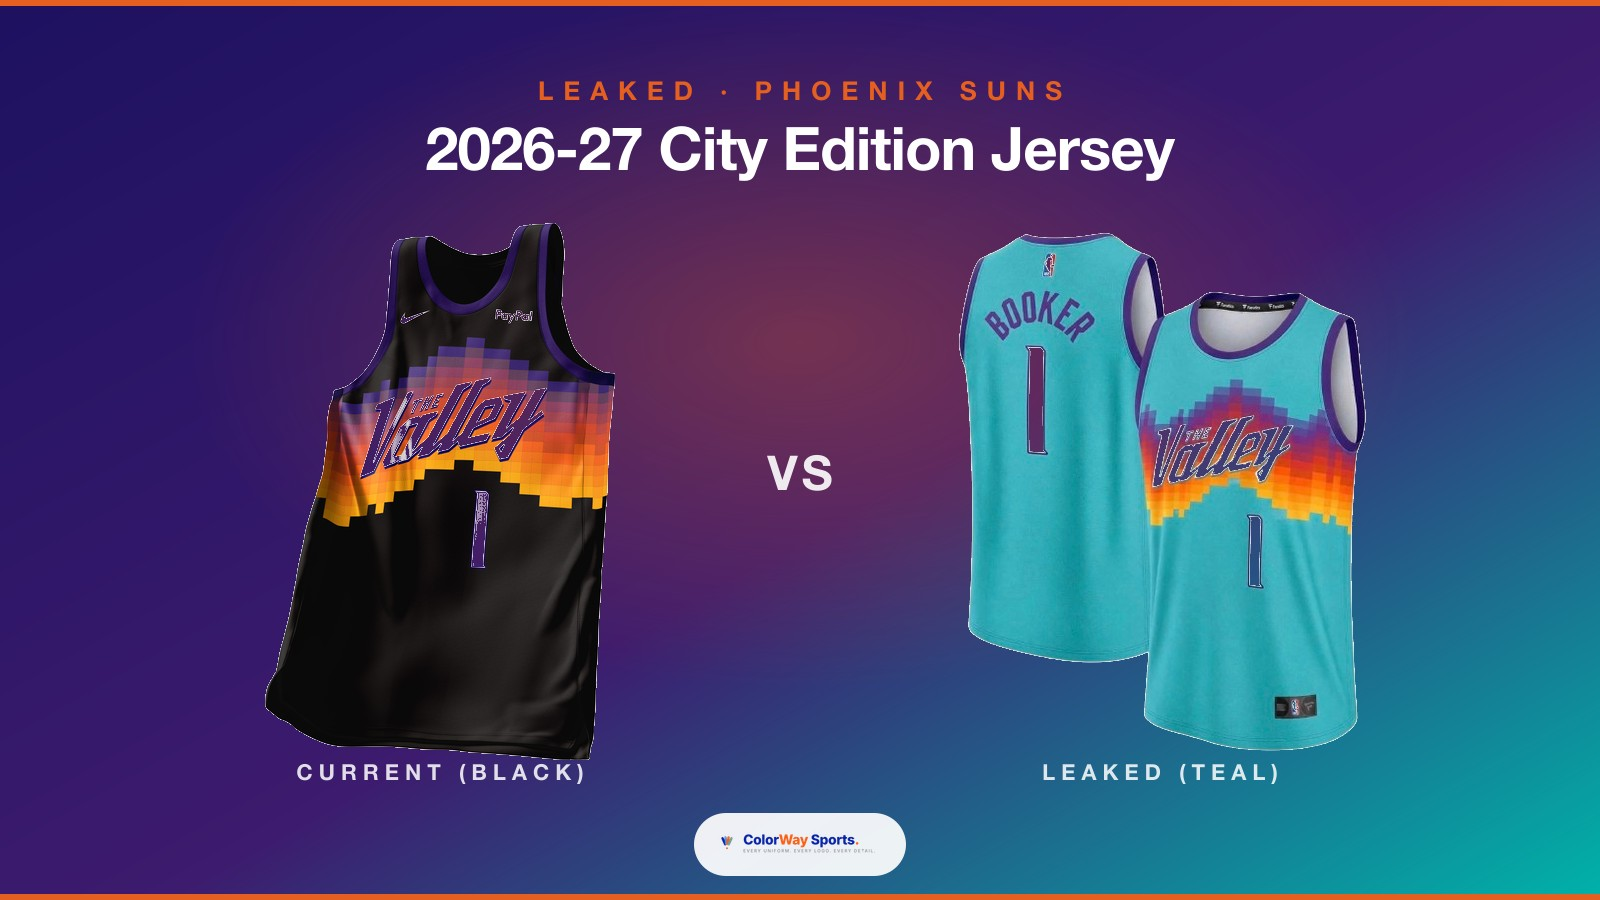
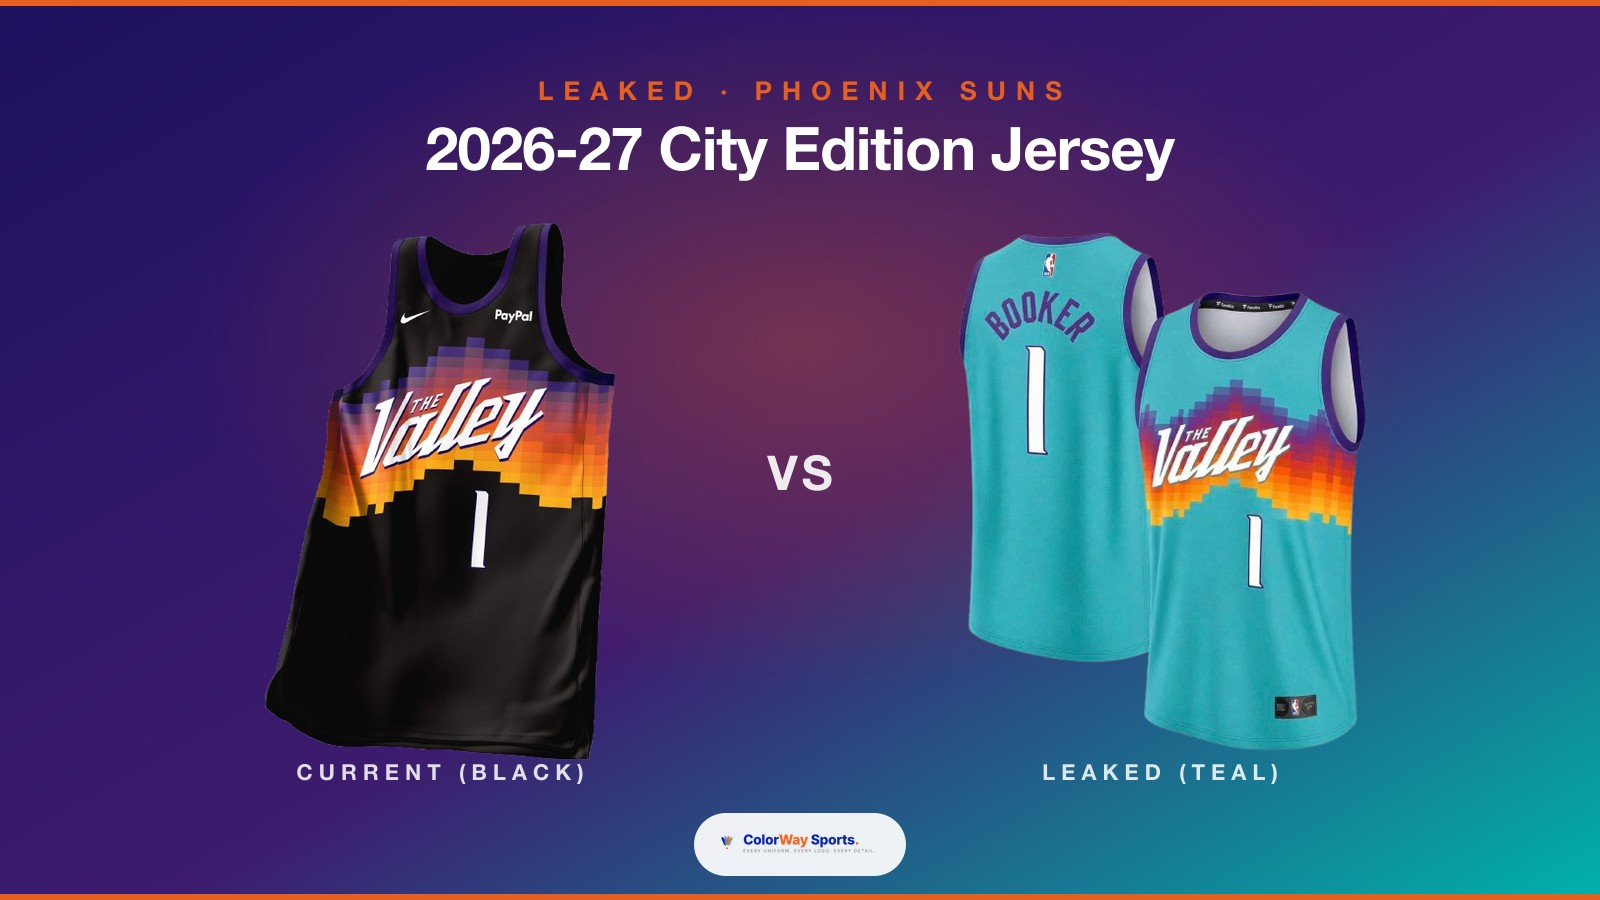
Phoenix Suns leaked City Edition post: swap jersey source images for Jake's manually background-removed PNG versions. Jake hand-cleaned the white photo-studio backgrounds out of both source jerseys using removebg and dropped the cleaned versions into public/images/posts/suns-leaked-city-edition-2026

diff --git a/content/posts/suns-leaked-city-edition-2026-27.md b/content/posts/suns-leaked-city-edition-2026-27.md
@@ -25,14 +25,14 @@ A leaked image of the alleged Phoenix Suns 2026-27 City Edition jersey just hit 
 
 ## Phoenix Suns Current "The Valley" Jersey (Black)
 
-<img src="/images/posts/suns-leaked-city-edition-2026-27/suns-current-city-black.jpg" alt="Phoenix Suns current The Valley City Edition black home jersey with the cursive Valley wordmark and the pixelated desert sun and mountain silhouette graphic in orange purple and yellow on the all-black uniform" style="width: 100%; border-radius: 10px;" />
+<img src="/images/posts/suns-leaked-city-edition-2026-27/suns-current-city-black.png" alt="Phoenix Suns current The Valley City Edition black home jersey with the cursive Valley wordmark and the pixelated desert sun and mountain silhouette graphic in orange purple and yellow on the all-black uniform" style="width: 100%; border-radius: 10px;" />
 <p style="text-align: center; font-size: 0.75em; color: #999; margin-top: 0.5em;">Phoenix Suns current "The Valley" City Edition (black)</p>
 
 The current Phoenix Suns Valley jersey runs the cursive "The Valley" wordmark over the iconic pixelated desert sun and mountain silhouette graphic, all set on an all-black base. The template debuted in 2020-21 and has been the franchise's strongest single uniform design since the Charles Barkley era. The pixel art is one of the most recognizable single elements in modern NBA uniform design and the wordmark is now permanently tied to Phoenix Suns culture. The drawback is the black colorway. Phoenix is not a black-jersey city. The Arizona desert palette is sun-orange and turquoise blue and purple, not black, and the all-black base shrinks the broadcast impact of the desert sun graphic against any opposing primary that is also dark. The template is great. The base color is the weak link. **Grade: B**
 
 ## Leaked Phoenix Suns 2026-27 "The Valley" Jersey (Bright Teal)
 
-<img src="/images/posts/suns-leaked-city-edition-2026-27/suns-leaked-city-teal.jpg" alt="Phoenix Suns 2026-27 leaked City Edition bright teal jersey with the cursive The Valley wordmark and the pixelated desert sun mountain silhouette graphic in orange purple and yellow on a turquoise teal base, alleged new NBA City Edition uniform for next season" style="width: 100%; border-radius: 10px;" />
+<img src="/images/posts/suns-leaked-city-edition-2026-27/suns-leaked-city-teal.png" alt="Phoenix Suns 2026-27 leaked City Edition bright teal jersey with the cursive The Valley wordmark and the pixelated desert sun mountain silhouette graphic in orange purple and yellow on a turquoise teal base, alleged new NBA City Edition uniform for next season" style="width: 100%; border-radius: 10px;" />
 <p style="text-align: center; font-size: 0.75em; color: #999; margin-top: 0.5em;">Leaked Phoenix Suns 2026-27 "The Valley" City Edition (bright teal, alleged)</p>
 
 The leaked 2026-27 version keeps the cursive "The Valley" wordmark and the same pixelated desert sun graphic but flips the base from black to a bright teal. The change is dramatic. Teal anchors the whole jersey to the actual Arizona color palette, the turquoise associated with Southwest design and Native American jewelry traditions across the region, and lets the orange and yellow pixel sun art pop harder against a complementary base instead of fighting a neutral black. The teal also gives Phoenix a unique identity in the league, no other NBA team runs teal as a primary base, and it would slot into the broadcast as instantly recognizable in a way the black version never can. Same beloved template, much better color. **Grade: A-**
